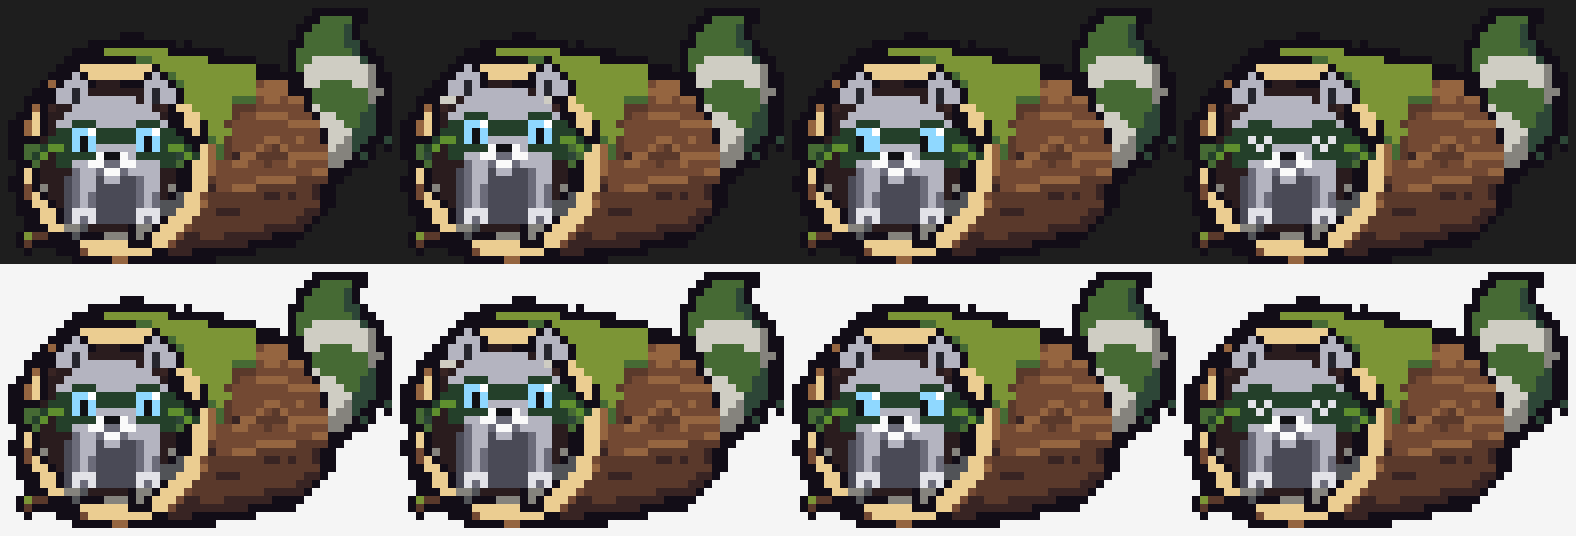
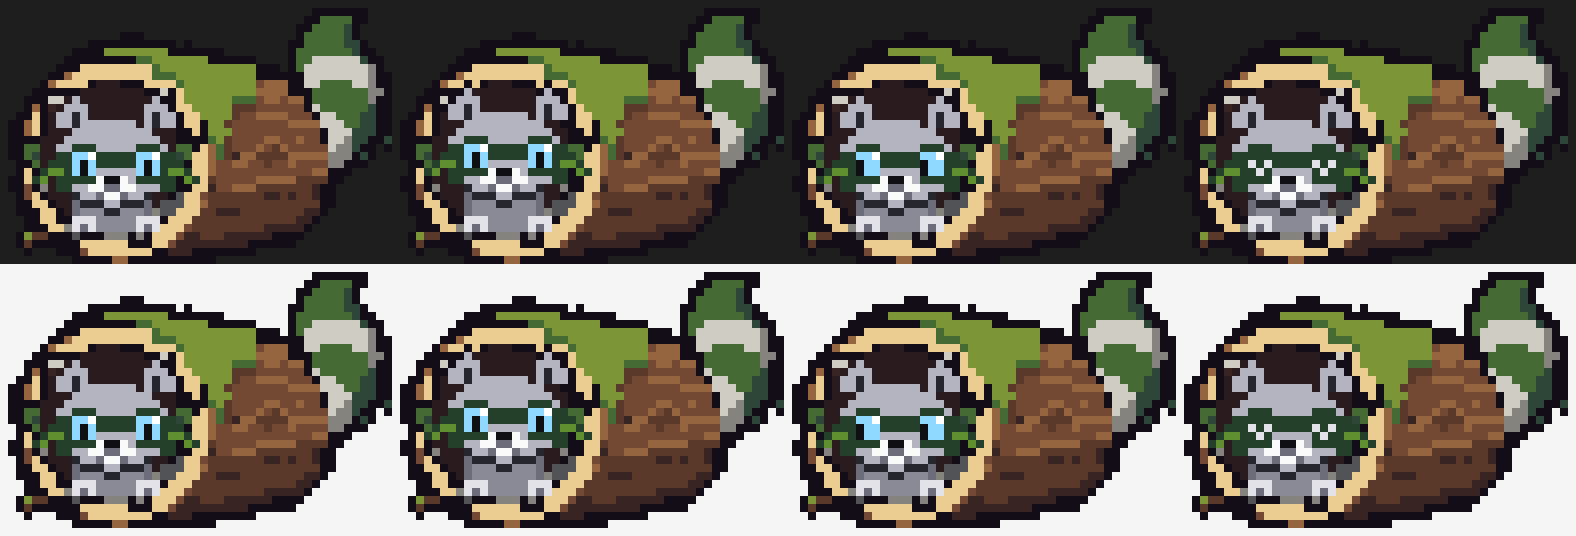
P5-19: Hollowmask's head sits lower, chin on its paws

diff --git a/docs/sessions/2026-10-14-danielpg95-P5-19.md b/docs/sessions/2026-10-14-danielpg95-P5-19.md
@@ -20,7 +20,7 @@ the three placeholders, add three new Modsters, and bring Whispering Forest to
   - `plugin/content/modsters/acornsprite/`: **Acornsprite**, #023, rare, fairy/grass, Acorn Fairy Modster. Converted from @danielpg95's reference, face and cap texture finished by hand. 40×32, 13 colors, 4-pose wing flap at 8 fps.
 - New Modsters:
   - `plugin/content/modsters/pinekin/`: **Pinekin**, #024, common, grass/normal, Pinecone Modster. Scales converted from @danielpg95's reference, head redrawn by hand. 38×32, 15 colors, 4 fps.
-  - `plugin/content/modsters/hollowmask/`: **Hollowmask**, #025, uncommon, dark/grass, Log Raccoon Modster. Log, moss and tail converted from @danielpg95's reference (6 bark columns cut to fit 48 wide); the approved face redrawn into it, with arms reaching to the rim. 48×32, 24 colors, 4 fps.
+  - `plugin/content/modsters/hollowmask/`: **Hollowmask**, #025, uncommon, dark/grass, Log Raccoon Modster. Log, moss and tail converted from @danielpg95's reference (6 bark columns cut to fit 48 wide); the approved face redrawn into it, sitting low with its chin on its paws. 48×32, 24 colors, 4 fps.
   - `plugin/content/modsters/musketail/`: **Musketail**, #026, rare, fighting/grass, Swordsmouse Modster. A mouse with a feathered hat, a draped red leaf cape and a pine-needle sword. 26×26, 4 fps.
 - `plugin/content/biomes/whispering-forest/biome.json` lists all 10. Credit rows updated or added in `plugin/content/CREDITS.md`.
 - Verified: `npm run check:content` passes, and its odds table shows 3/3/3/1 (commons 25.3% each, uncommons 6.3%, rares 1.5%, Elderbark 0.5%). `claude plugin test ./plugin` passes: 670 tests.
